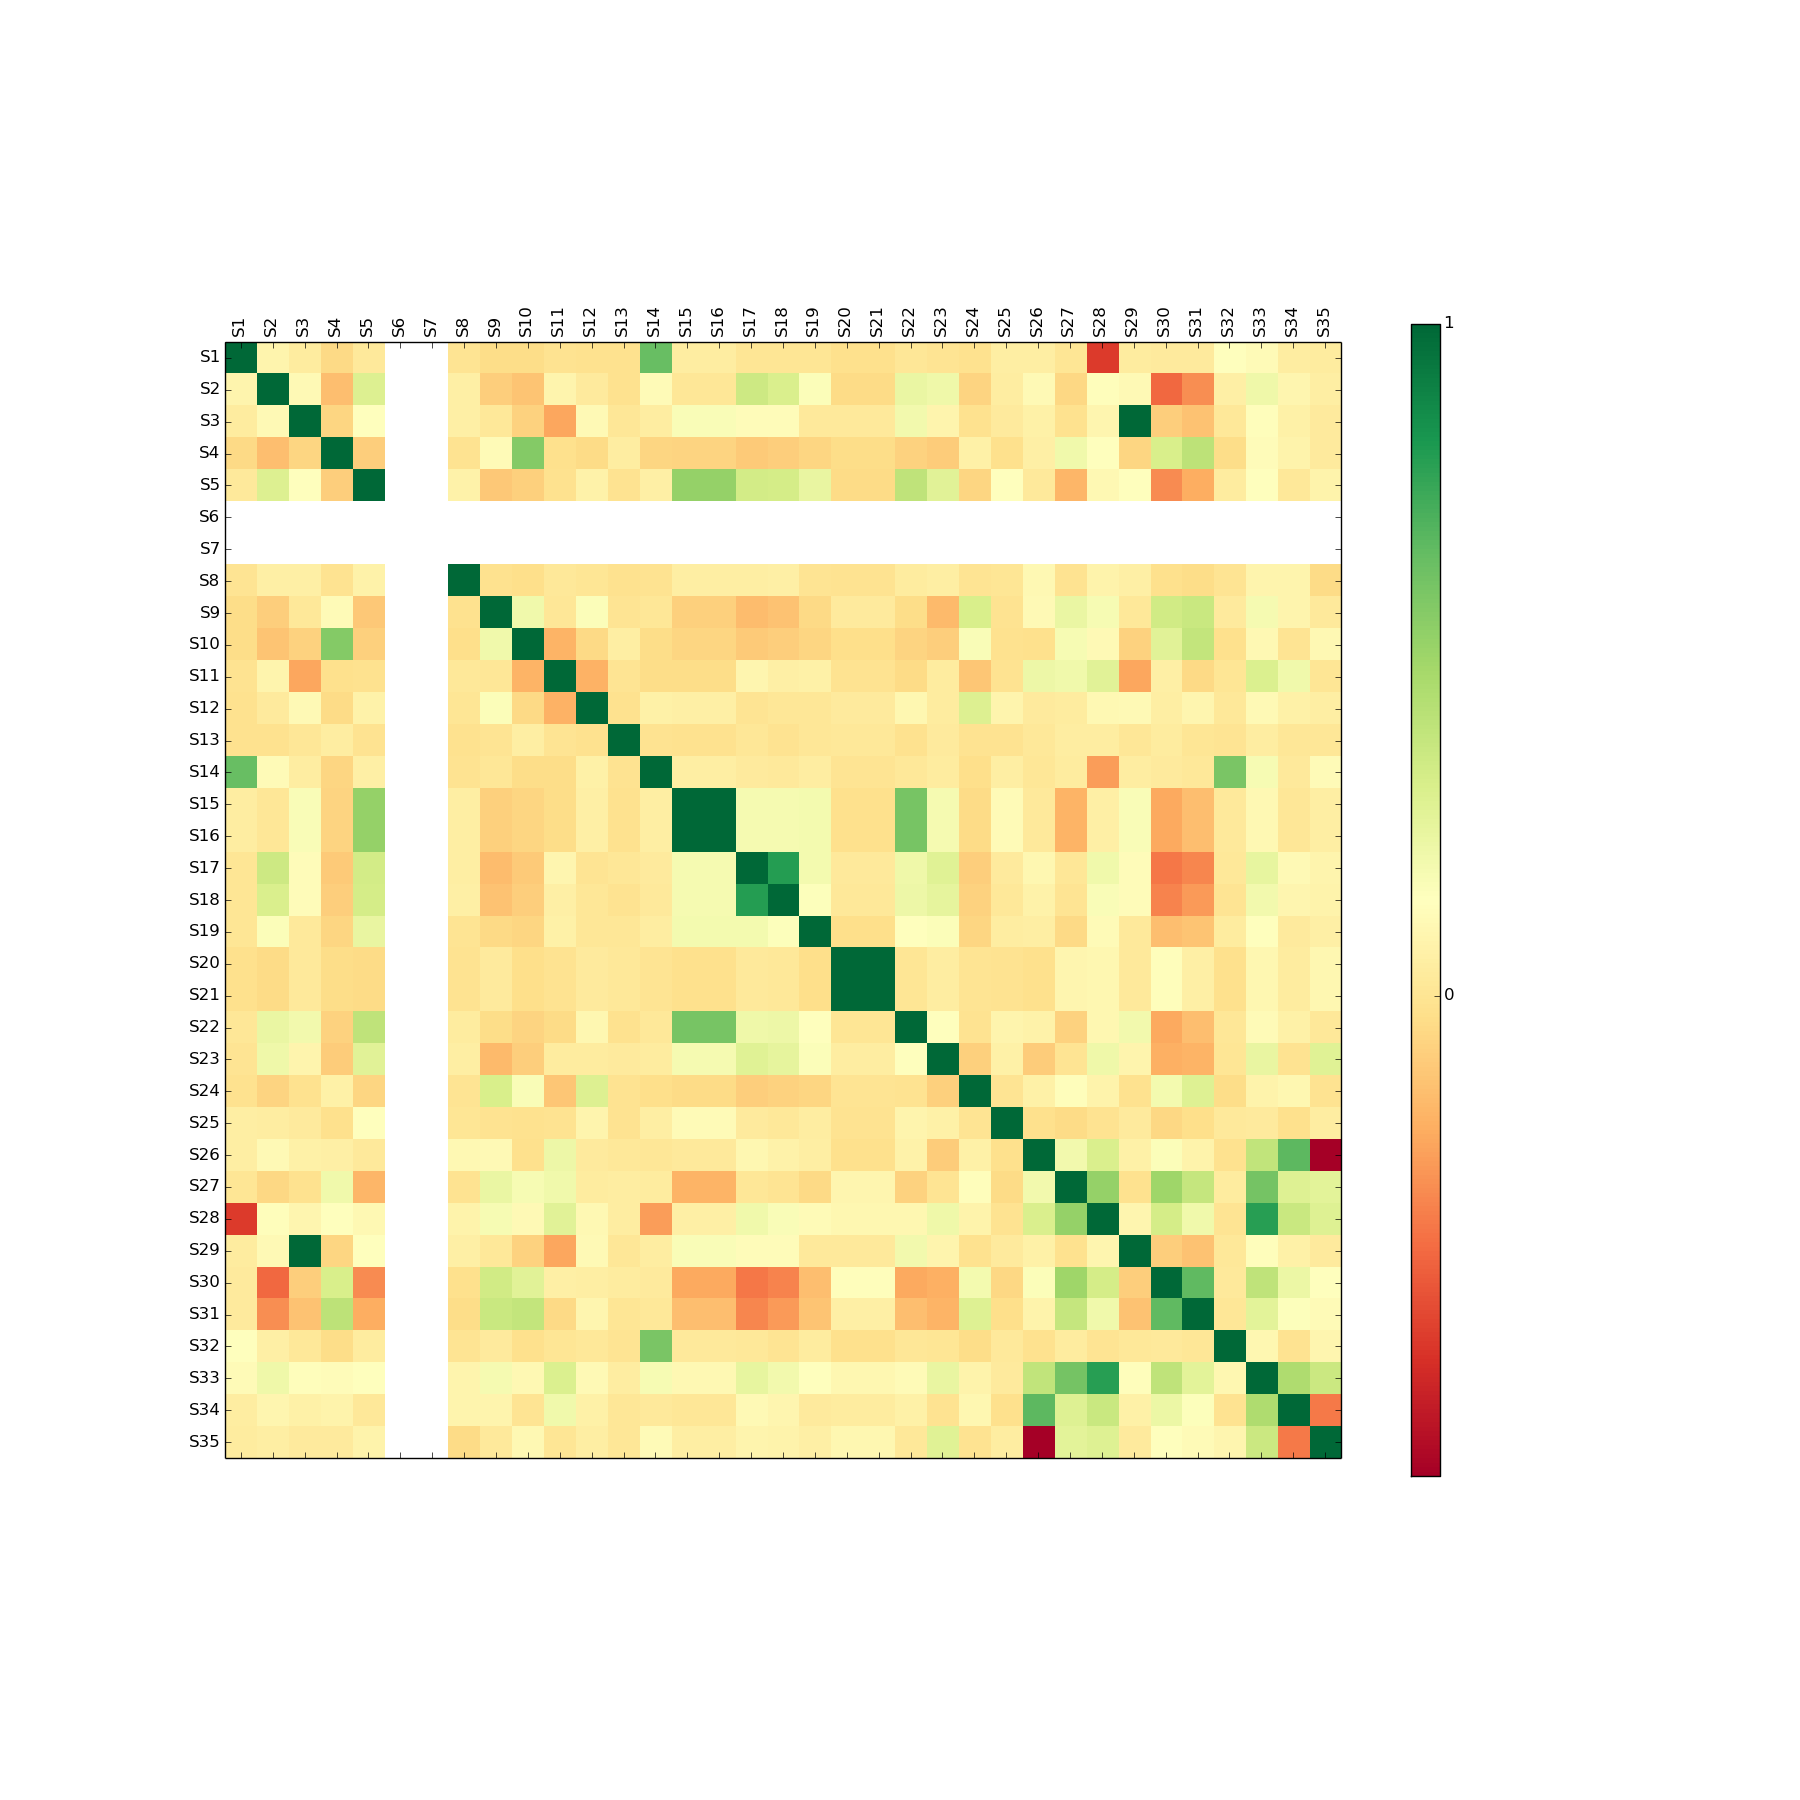
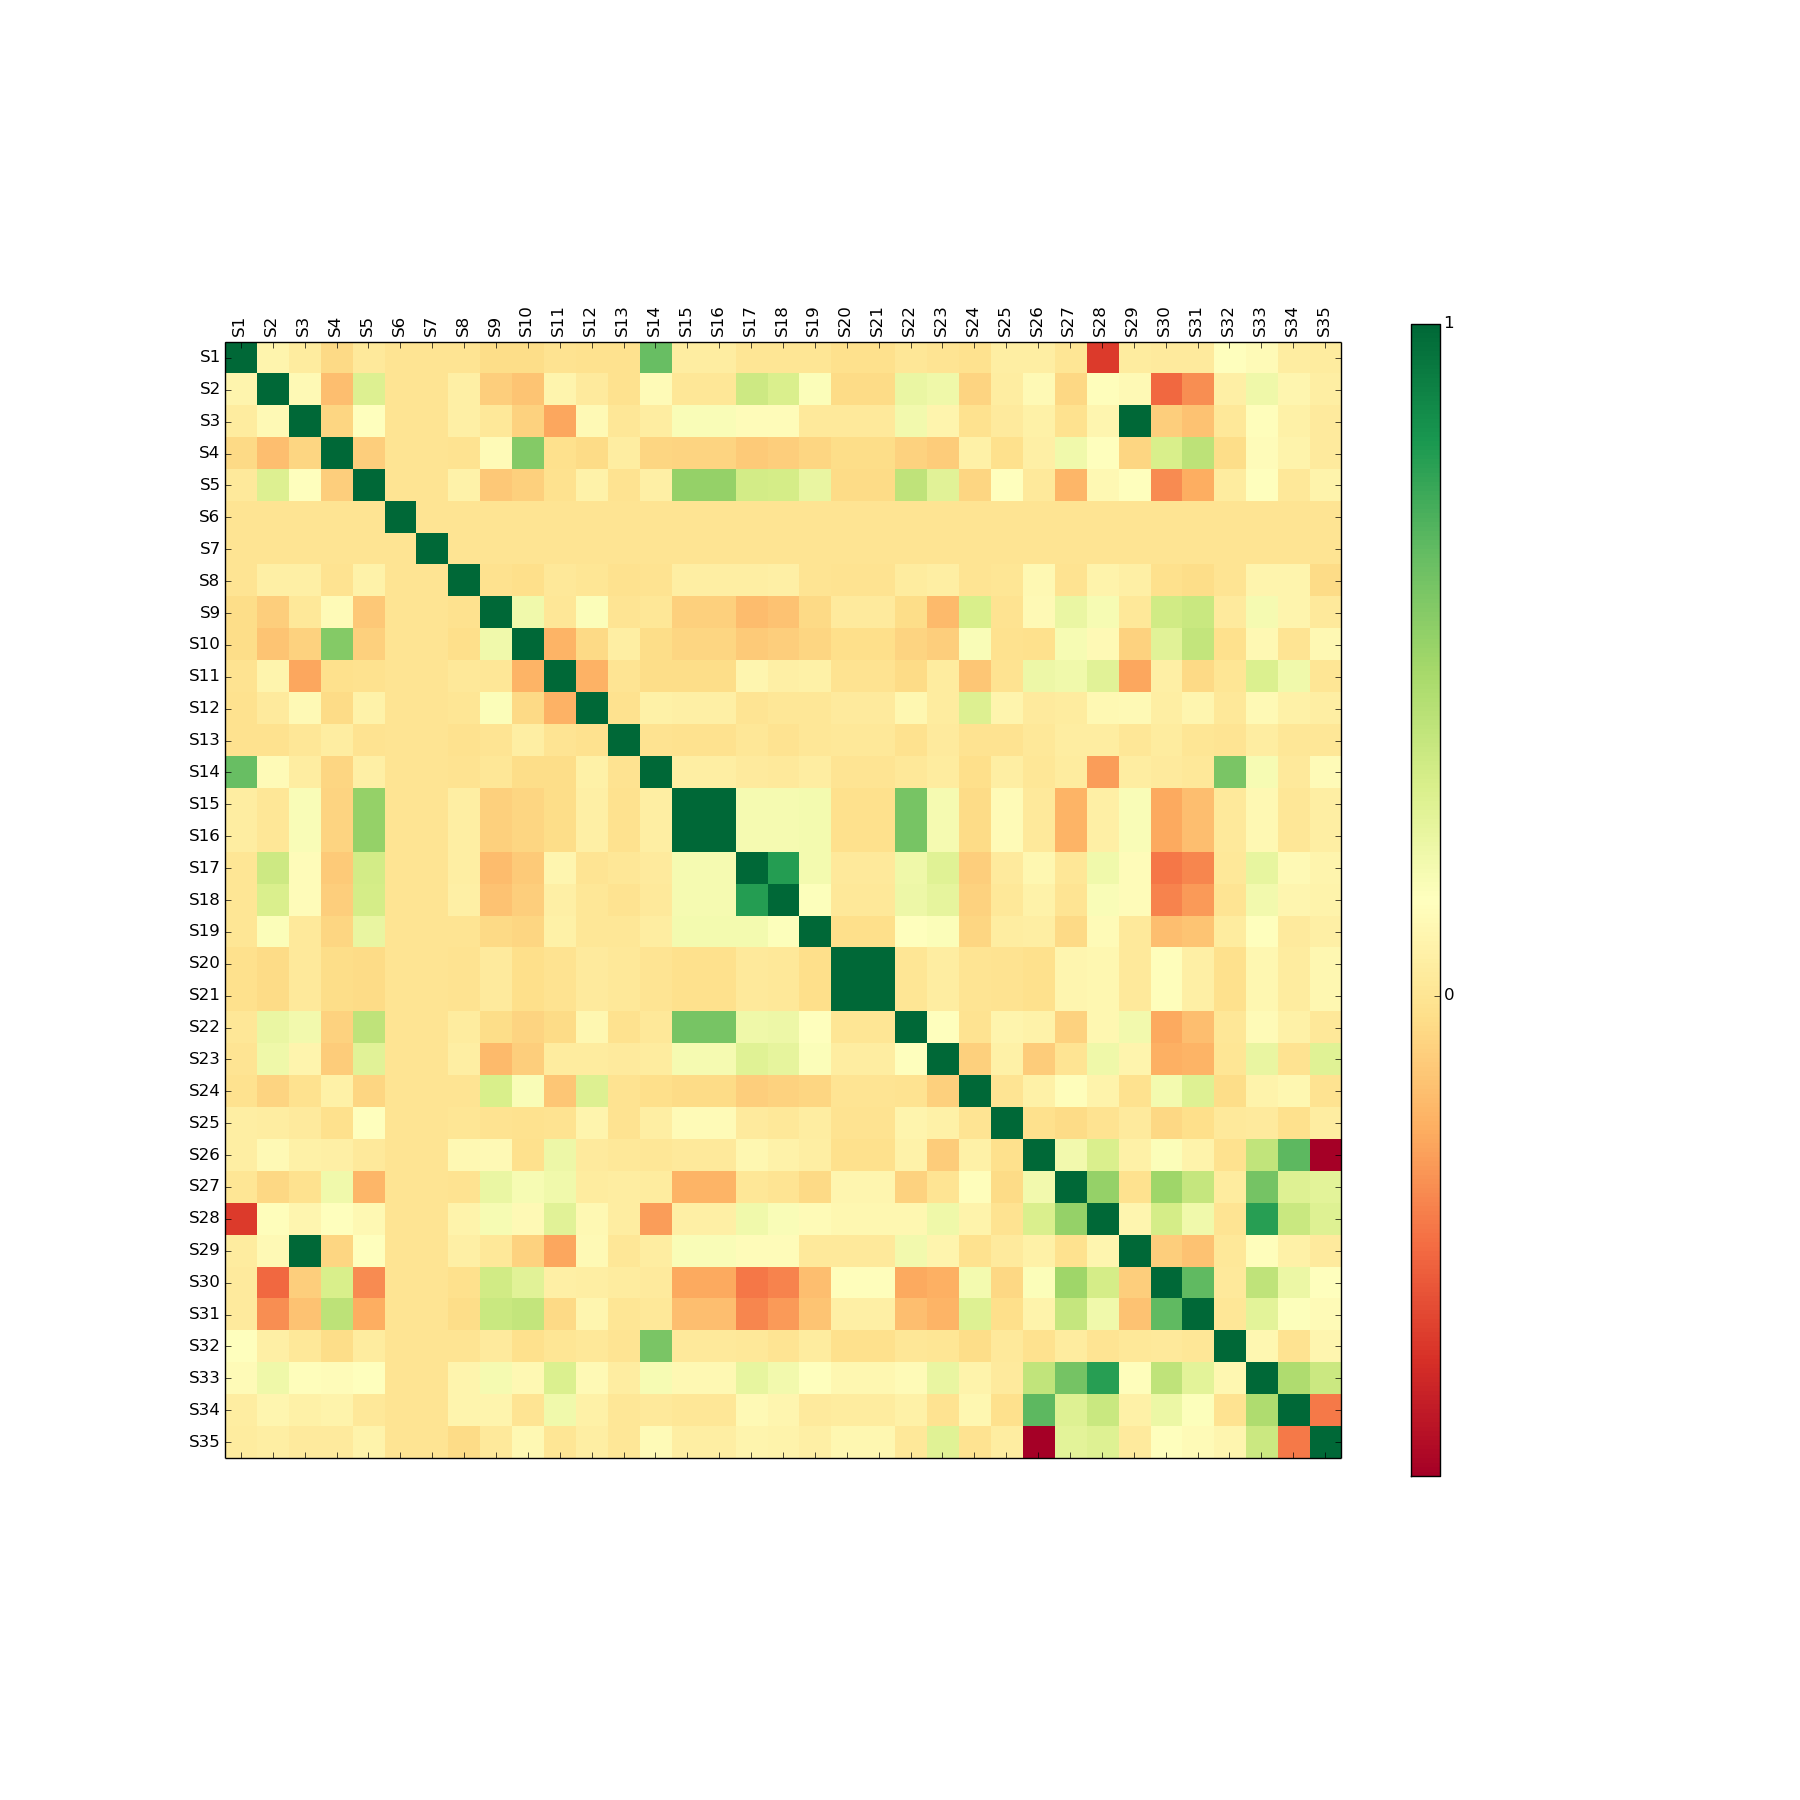
correlation clustering corrected

Changed region(s): [[0.1244, 0.1867, 0.7467, 0.8089]]

diff --git a/dataProcessing.py b/dataProcessing.py
@@ -62,14 +62,14 @@ def plot_corr_clustering(df,size,n):
         string = 'S' + str(i+1)
         while j < (len(correlations[string])):
             if numpy.isnan(correlations[string][j]):
-                if i == j:
+                if (i+1) == int(correlations.columns[j][1]):
                     value = 1
                 else:
                     value = 0    
                 correlations[string][j] = value
             j += 1
         i += 1
-    
+        
     # Plot the correlation matrix
     fig, ax = plt.subplots(figsize=(size, size))
     cax = ax.matshow(correlations, cmap='RdYlGn')
